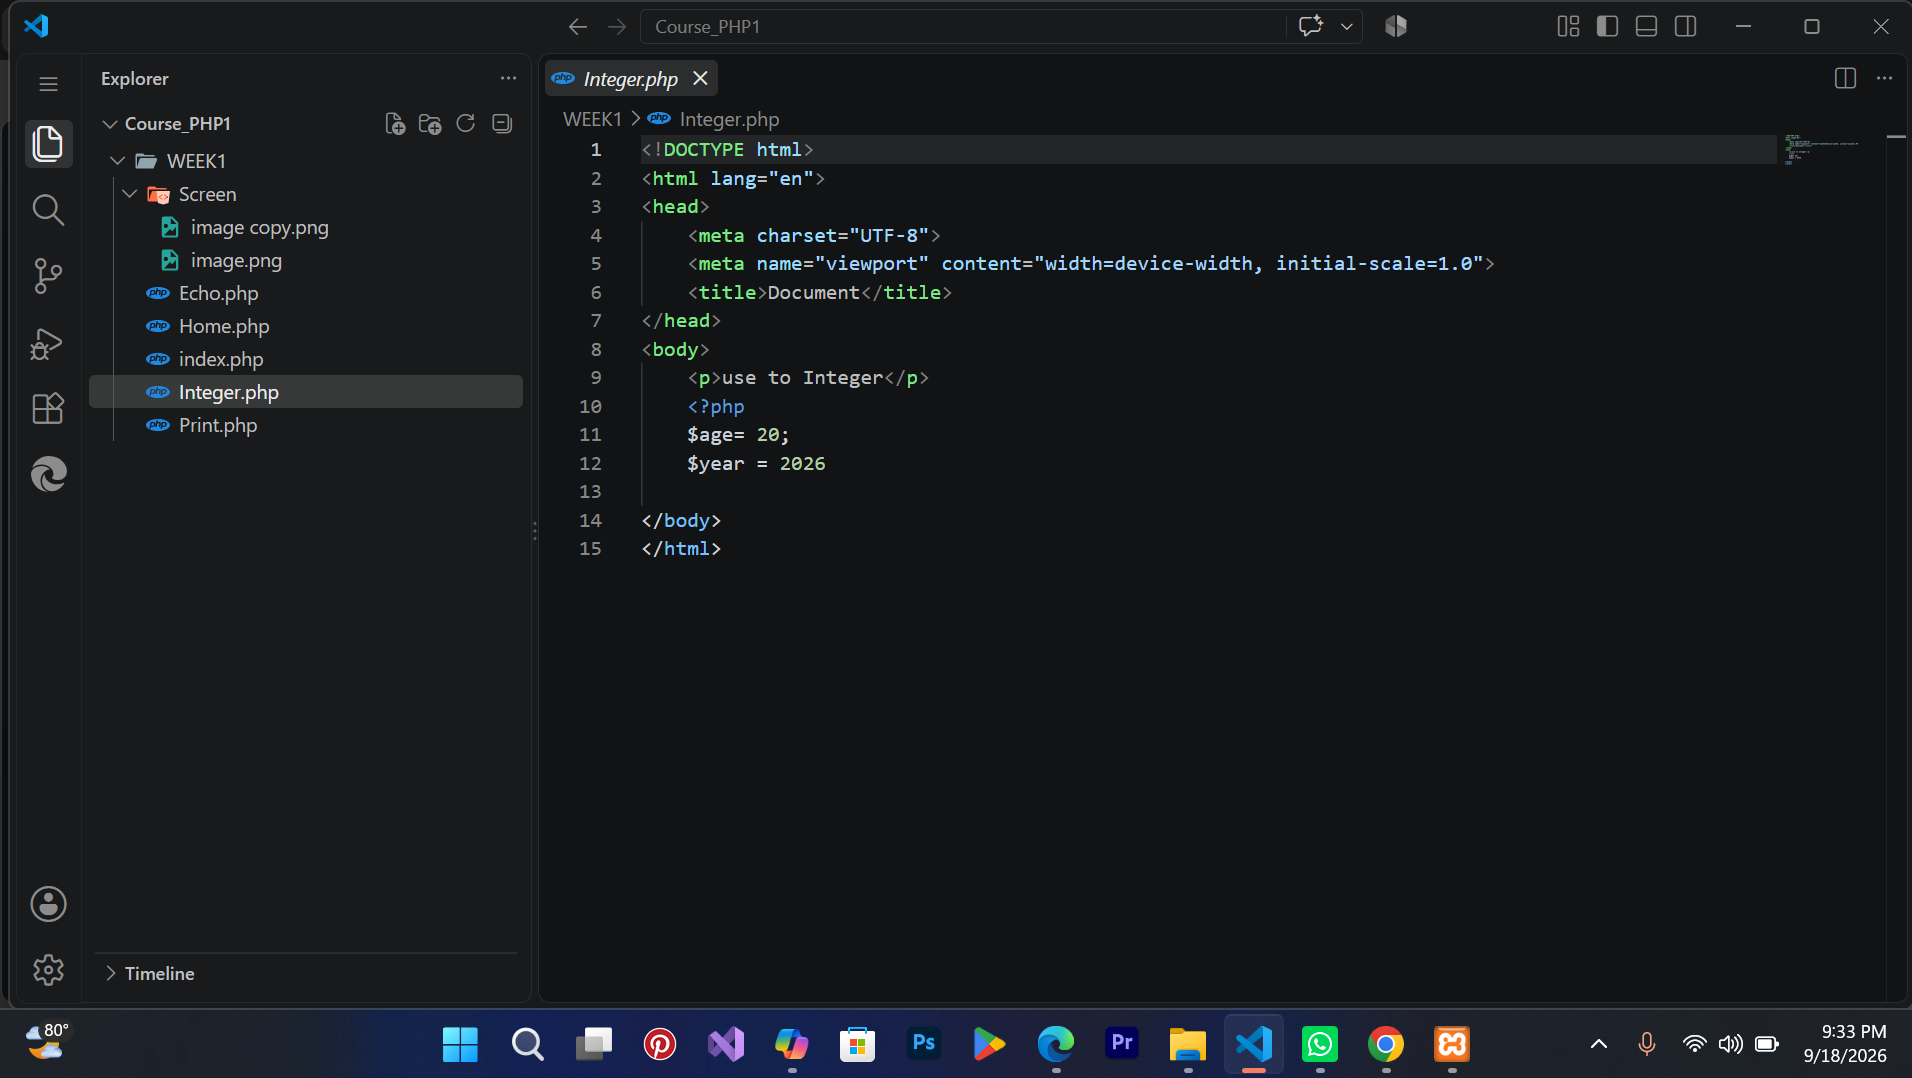
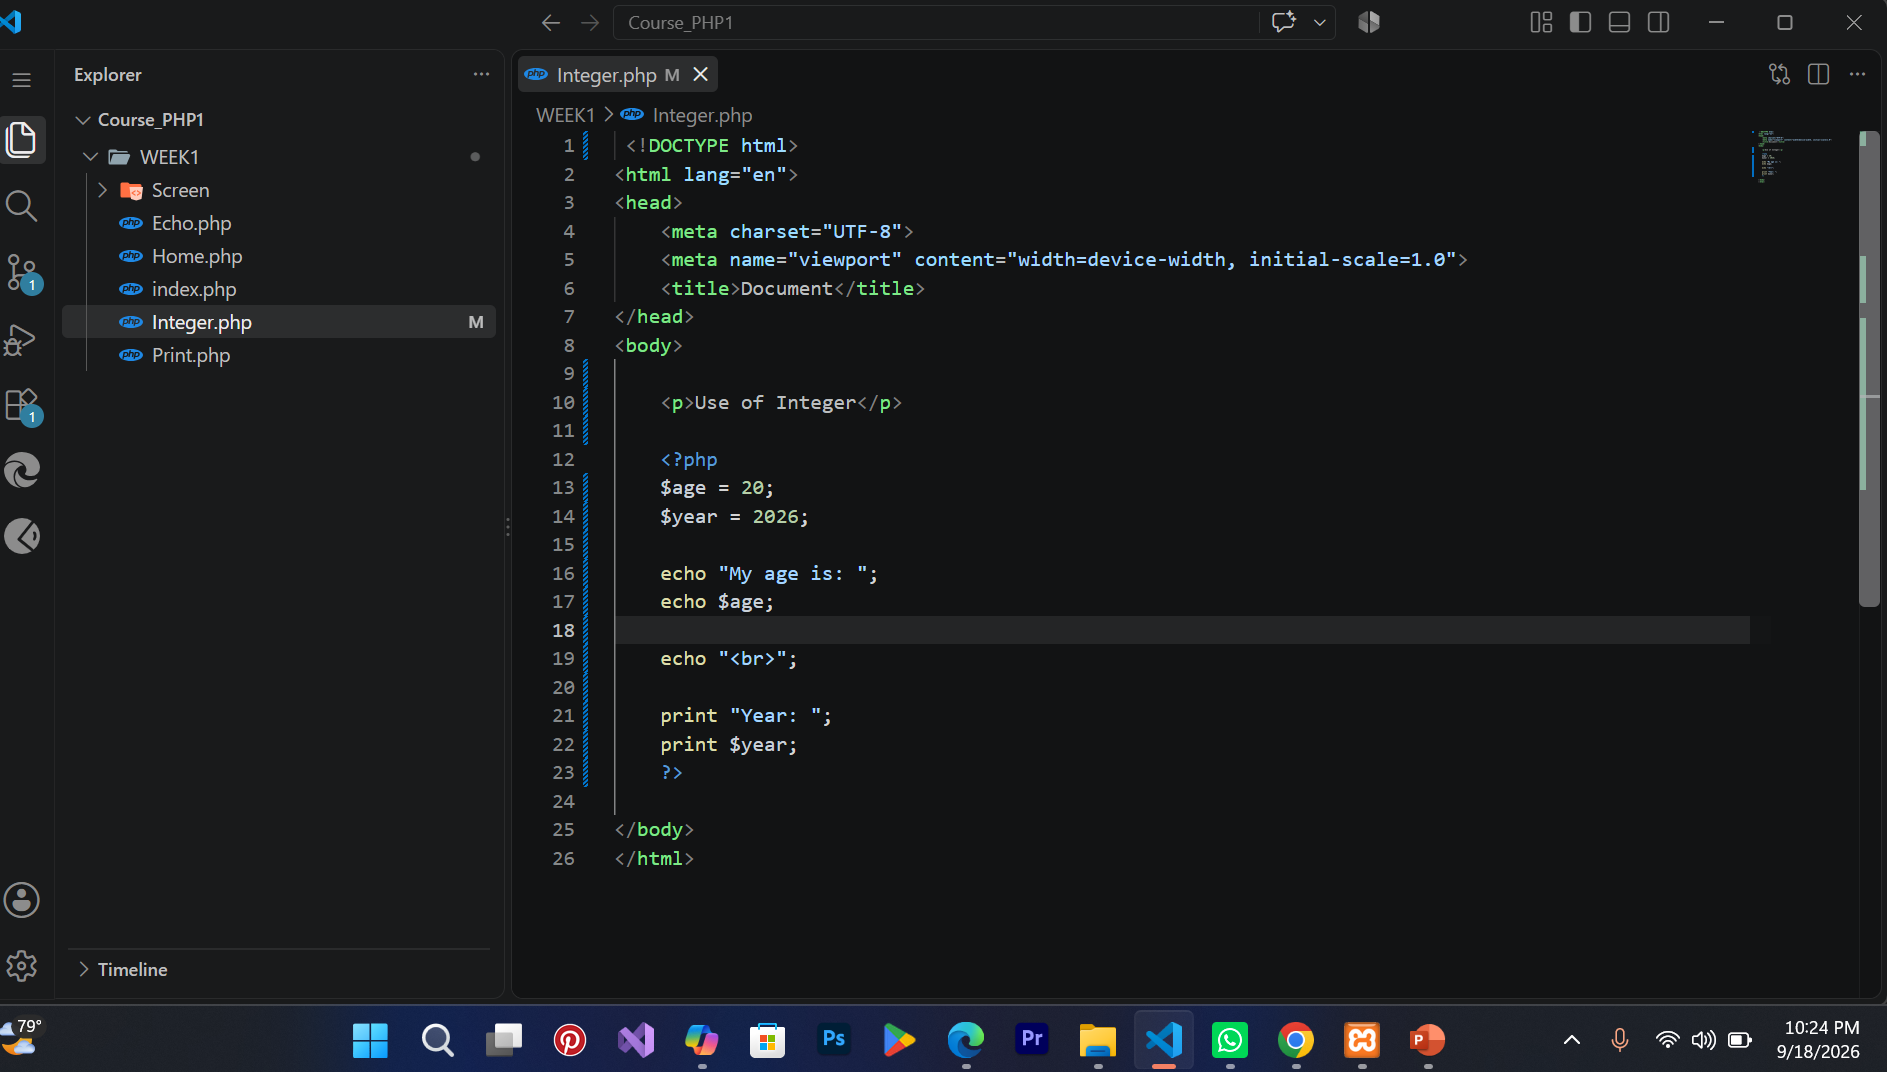
Add files via upload

diff --git a/Course_PHP1/WEEK1/Integer.php b/Course_PHP1/WEEK1/Integer.php
@@ -1,4 +1,4 @@
-<!DOCTYPE html>
+ <!DOCTYPE html>
 <html lang="en">
 <head>
     <meta charset="UTF-8">
@@ -6,10 +6,21 @@
     <title>Document</title>
 </head>
 <body>
-    <p>use to Integer</p>
+
+    <p>Use of Integer</p>
+
     <?php
-    $age= 20;
-    $year = 2026   
+    $age = 20;
+    $year = 2026;
+
+    echo "My age is: ";
+    echo $age;
+
+    echo "<br>";
+
+    print "Year: ";
+    print $year;
+    ?>
 
 </body>
 </html>

diff --git a/Course_PHP1/WEEK1/Print.php b/Course_PHP1/WEEK1/Print.php
@@ -3,7 +3,7 @@
 <head>
     <meta charset="UTF-8">
     <meta name="viewport" content="width=device-width, initial-scale=1.0">
-    <title>Print Example</title>
+    <title>Document</title>
 </head>
 <body>
     <h1>Use to string</h1>
